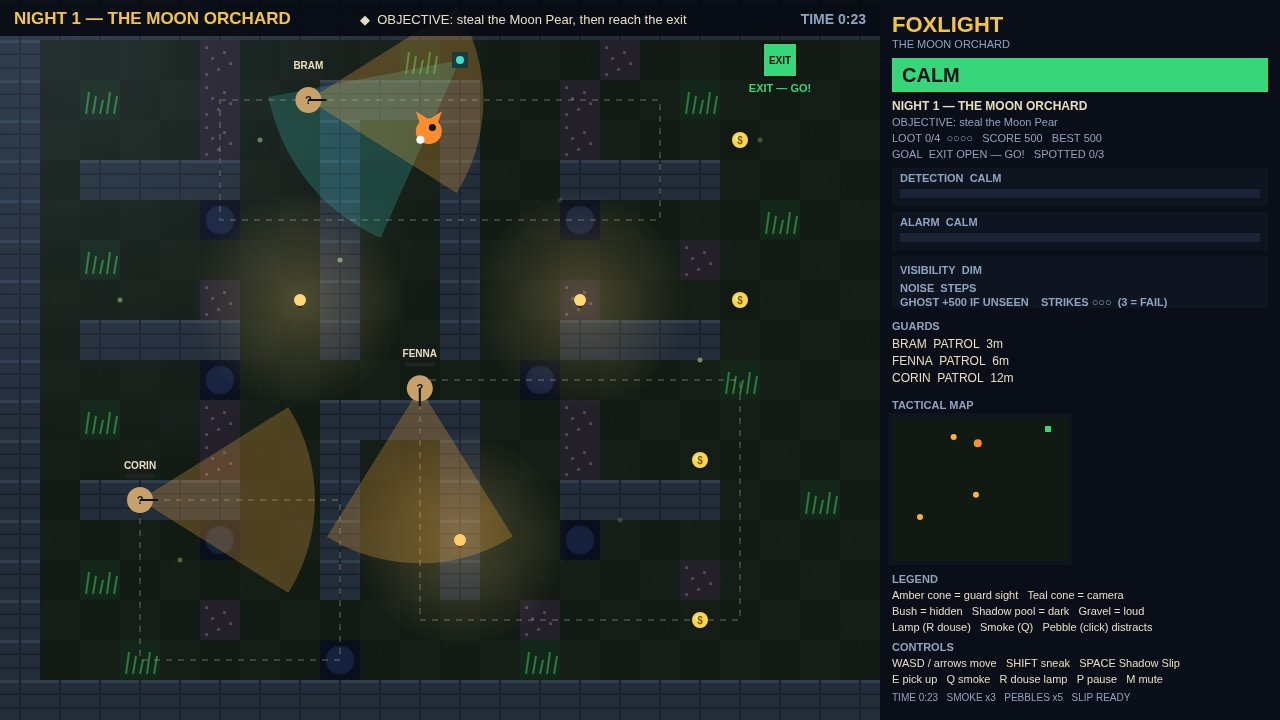
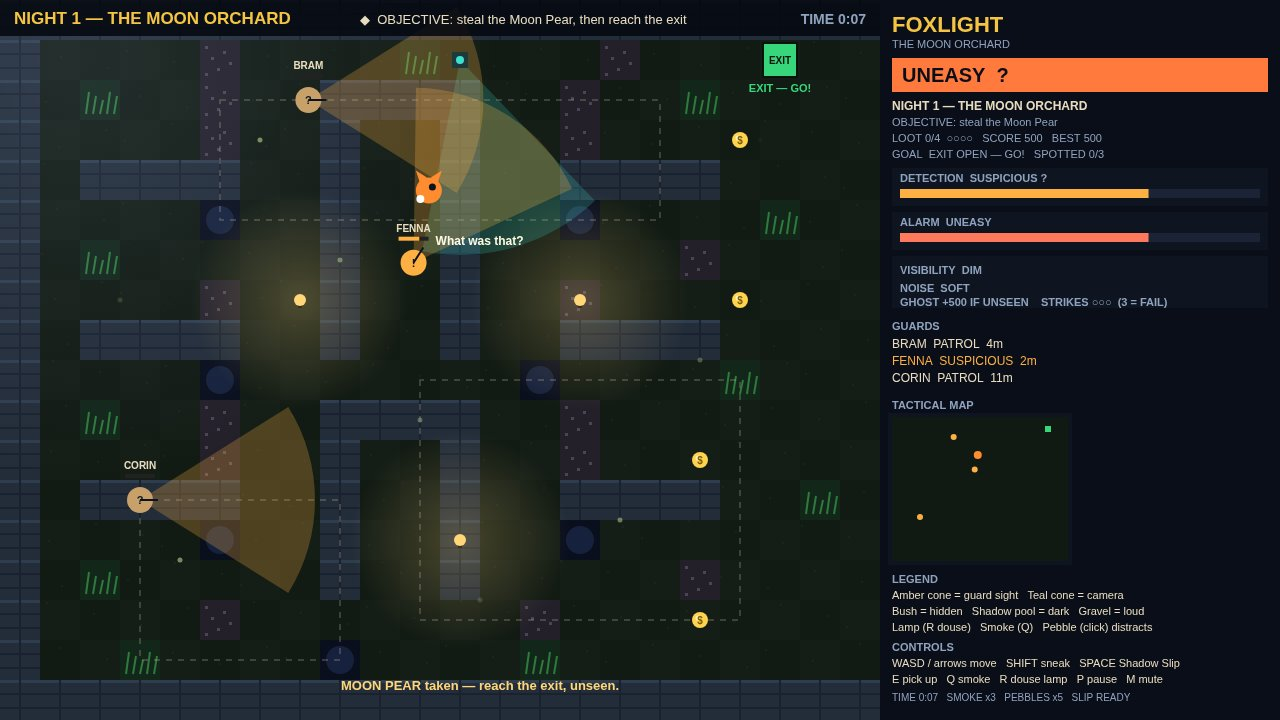
v3: tense cover — brave autopilot freezes at SUSPICIOUS/UNEASY with relic taken; level-2 gameplay shot replaces title shot

diff --git a/game/src/shots.js b/game/src/shots.js
@@ -40,7 +40,7 @@ function coneDanger(world, x, y) {
   return danger;
 }
 
-function autopilot(world, reckless) {
+function autopilot(world, reckless, brave) {
   const s = world.state;
   const p = s.player;
   let target = null;
@@ -62,7 +62,8 @@ function autopilot(world, reckless) {
     const ny = Math.max(12, Math.min(FIELD.height - 12, p.y + dy * 26));
     const dist = Math.hypot(target.x - nx, target.y - ny);
     const danger = coneDanger(world, nx, ny);
-    const score = -dist - (reckless ? danger * 40 : danger * 420) + (dx === 0 && dy === 0 ? -8 : 0);
+    const weight = reckless ? 40 : brave ? 200 : 420;
+    const score = -dist - danger * weight + (dx === 0 && dy === 0 ? -8 : 0);
     if (score > bestScore) { bestScore = score; best = { x: dx, y: dy }; }
   }
   const sneak = coneDanger(world, p.x, p.y) > 0.15;
@@ -71,17 +72,41 @@ function autopilot(world, reckless) {
 
 export function stageShot(name, world) {
   world.reset();
+  if (name === 'level2') {
+    // A second gameplay moment, from night 2, so the sheet shows the
+    // campaign has more than one level.
+    world.loadLevel(1);
+    for (let i = 0; i < 20 / SAMPLE; i += 1) {
+      const a = autopilot(world, false, false);
+      const ev = world.step(SAMPLE, a.mx, a.my, { sneak: a.sneak });
+      if (ev & EVENT_WIN) return { screen: SCREEN_WIN, best: world.state.score };
+      if (ev & EVENT_OVER) break;
+    }
+    return { screen: world.state.over ? SCREEN_OVER : SCREEN_PLAY, best: world.state.score };
+  }
   if (name !== 'play' && name !== 'end') {
     for (let i = 0; i < START_SECONDS / SAMPLE; i += 1) world.step(SAMPLE, 0, 0, { sneak: false });
     return { screen: SCREEN_TITLE, best: 0 };
   }
   const reckless = name === 'end';
-  const limit = reckless ? END_LIMIT_SECONDS : PLAY_SECONDS;
+  // The cover is the tense moment, not a calm walk: the brave autopilot
+  // cuts cone edges, and the scene freezes just after a warden grows
+  // suspicious with the relic already taken — "?" over the guard, the fox
+  // hidden, the exit open.
+  const brave = name === 'play';
+  const limit = reckless ? END_LIMIT_SECONDS : 30;
+  let tense = 0;
   for (let i = 0; i < limit / SAMPLE; i += 1) {
-    const a = autopilot(world, reckless);
+    const a = autopilot(world, reckless, brave);
     const ev = world.step(SAMPLE, a.mx, a.my, { sneak: a.sneak });
     if (ev & EVENT_WIN) return { screen: SCREEN_WIN, best: world.state.score };
     if (ev & EVENT_OVER) break;
+    if (brave && world.state.relicTaken && world.state.detection >= 35 && world.state.detection < 70) {
+      tense += 1;
+      if (tense > 3) break;
+    } else {
+      tense = 0;
+    }
   }
   const over = world.state.over;
   return { screen: over ? SCREEN_OVER : SCREEN_PLAY, best: world.state.score };
